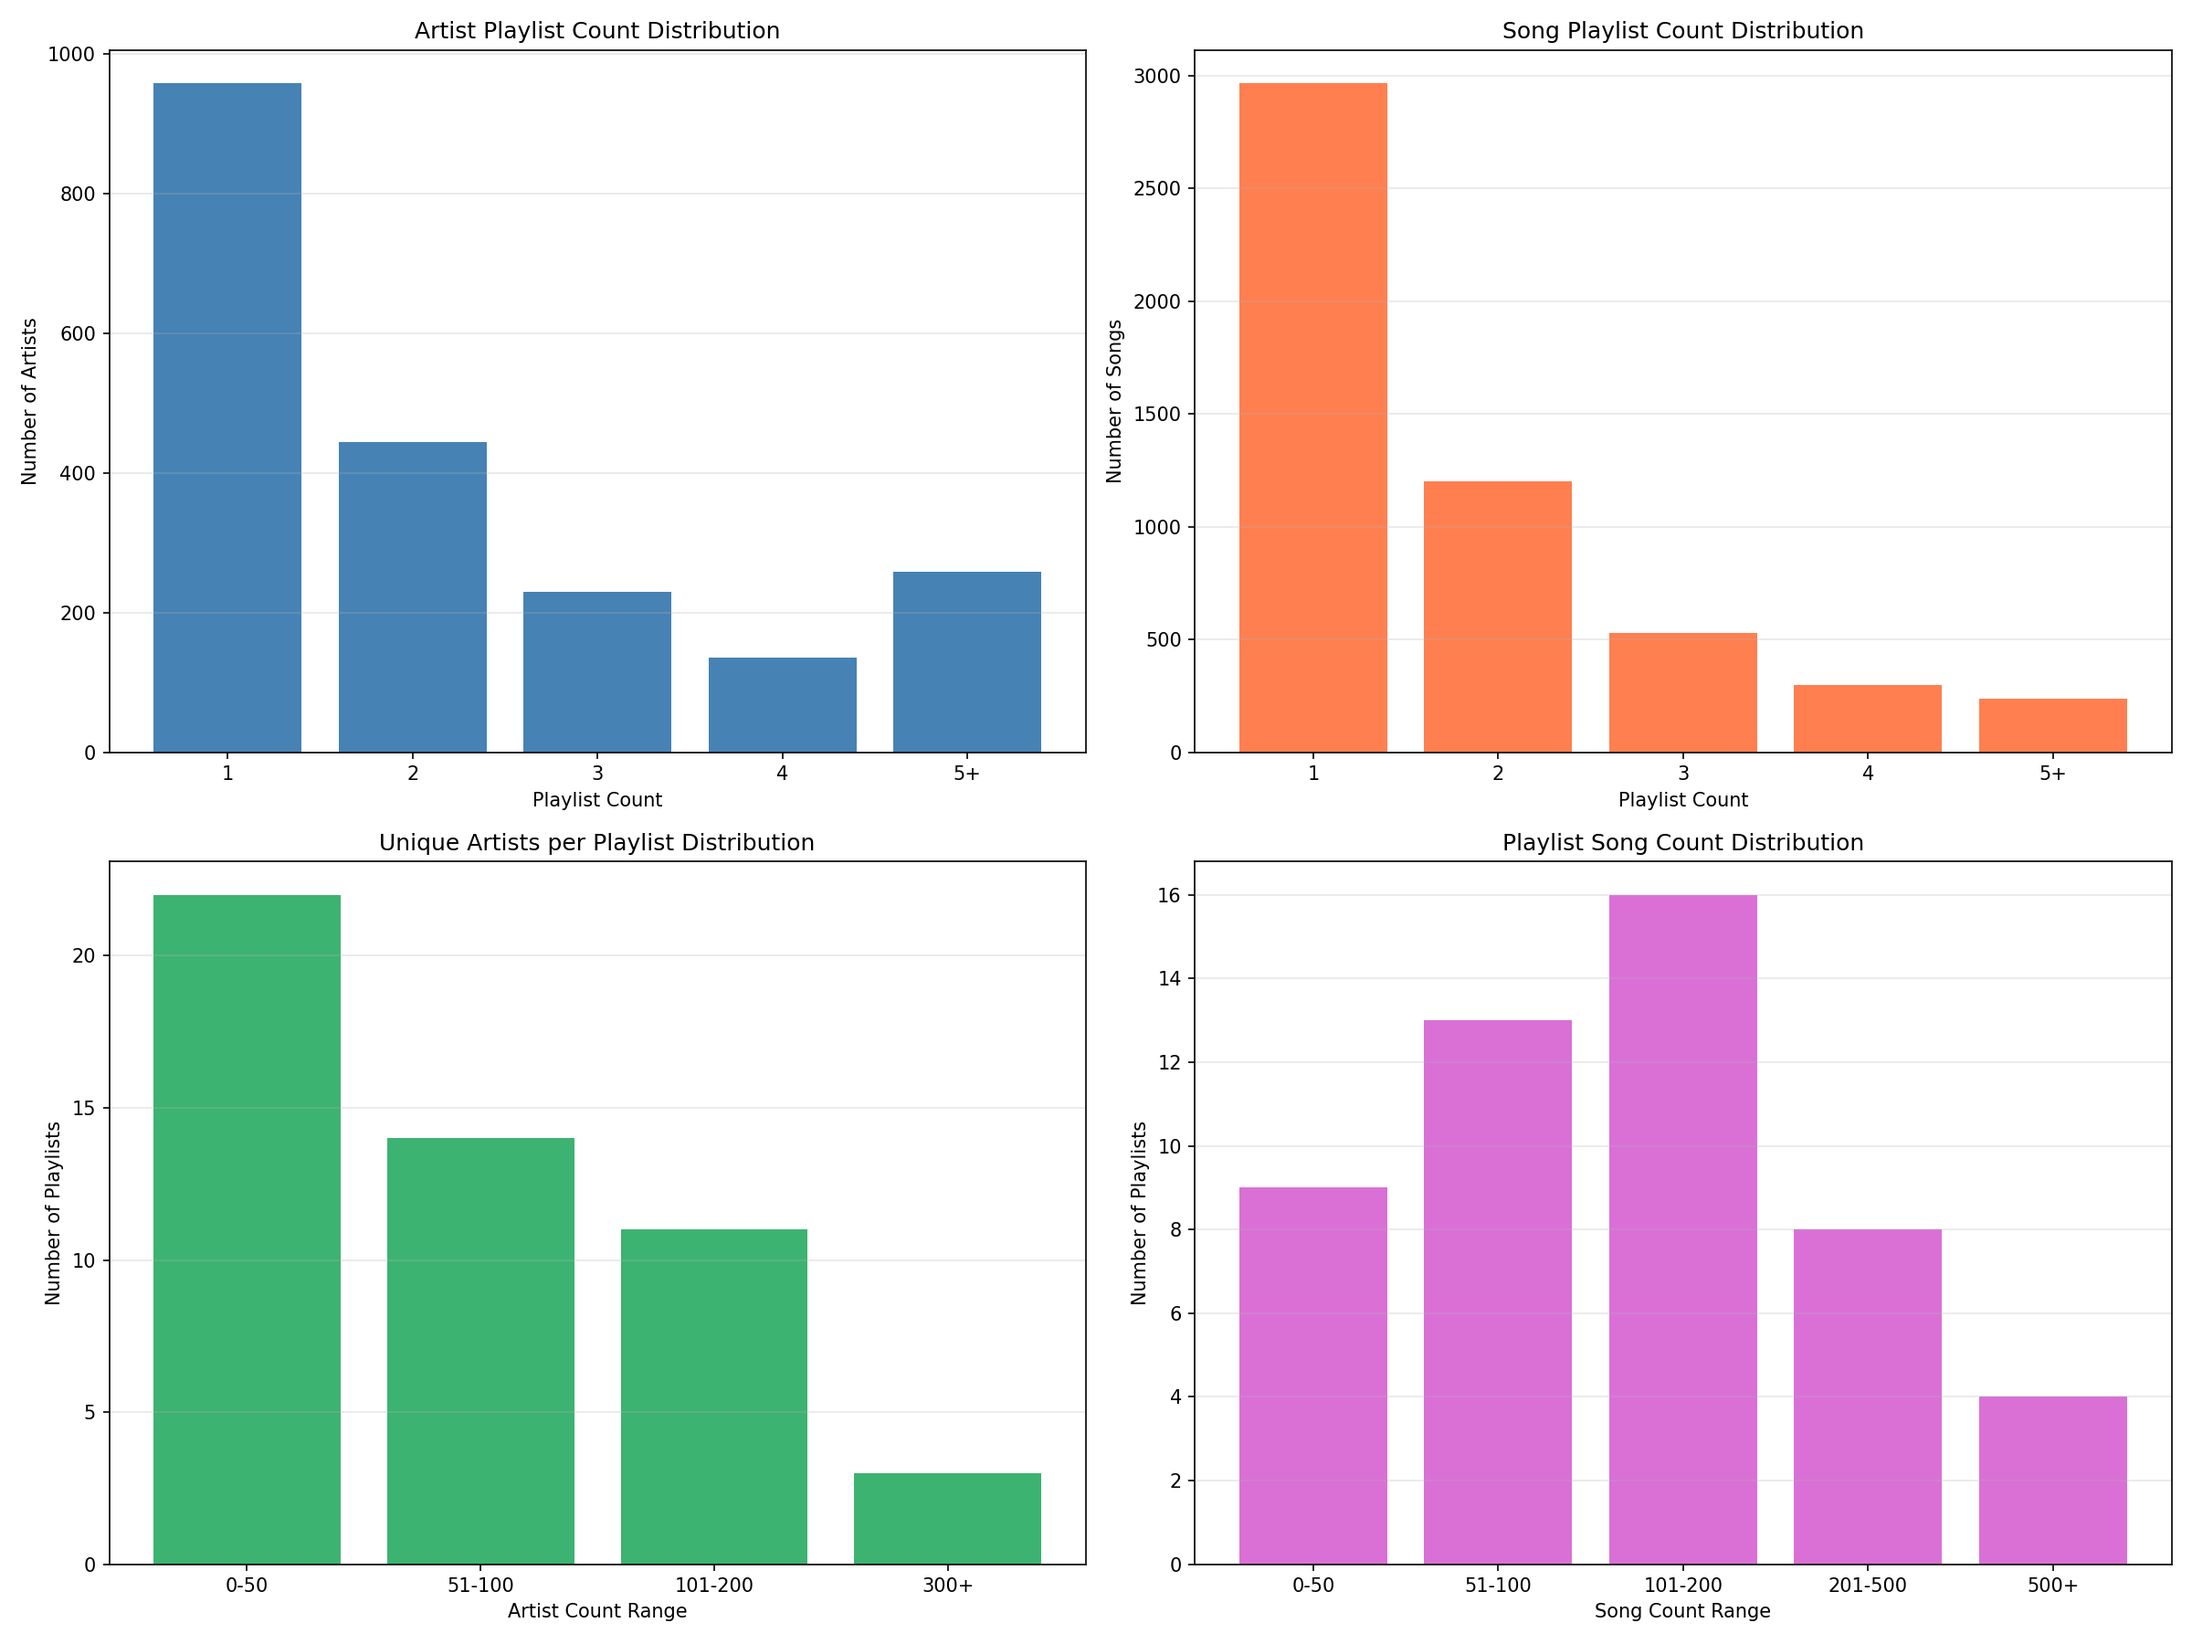
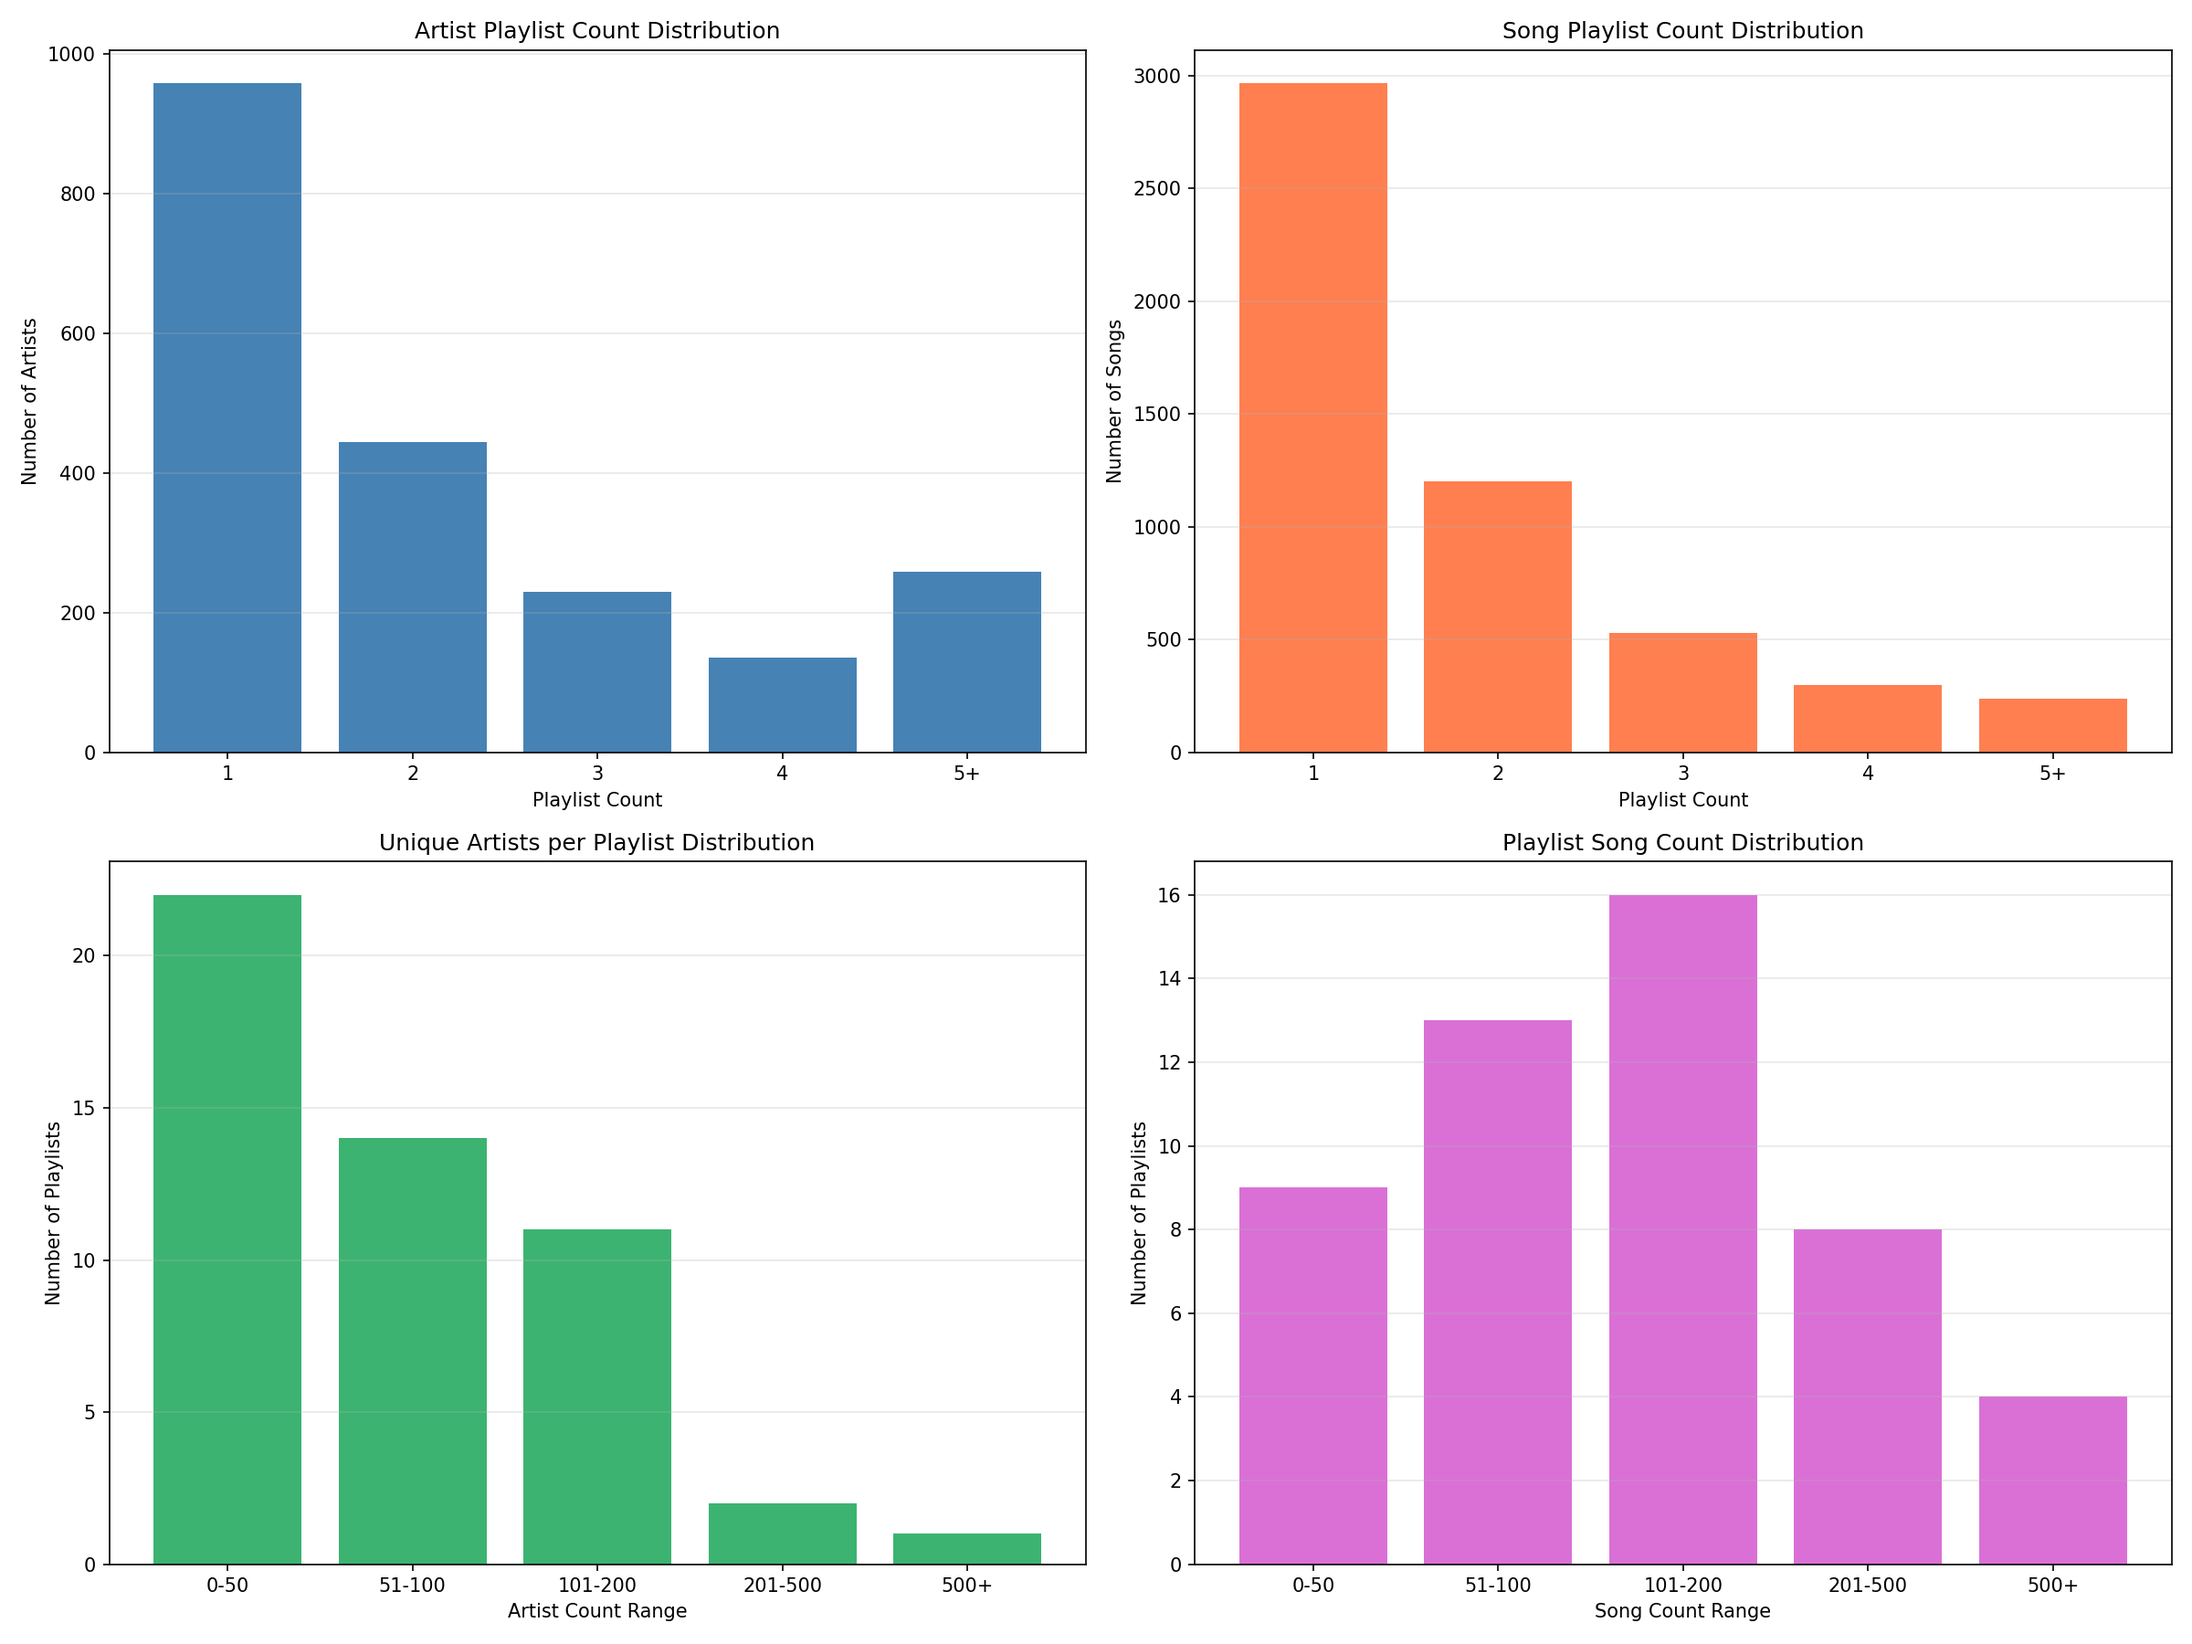
Commit changes to distribution bin count

Changed region(s): [[0.2188, 0.6844, 0.5, 0.9644], [0.125, 0.5289, 0.1875, 0.9644]]

diff --git a/src/analysis/visualize_distributions.py b/src/analysis/visualize_distributions.py
@@ -17,39 +17,33 @@ df_artist_playlist_raw = pd.read_sql("SELECT Artist, playlist_count FROM artist_
 # Query raw song playlist count
 df_song_playlist_raw = pd.read_sql("SELECT Track_ID, playlist_count FROM song_playlist_count", conn)
 
-# Query unique artists per playlist distribution (grouped ranges)
-df_artists_per_playlist = pd.read_sql("""
-    SELECT CASE
-             WHEN artist_count <= 50 THEN '0-50'
-             WHEN artist_count <= 100 THEN '51-100'
-             WHEN artist_count <= 200 THEN '101-200'
-             WHEN artist_count <= 300 THEN '201-300'
-             ELSE '300+'
-           END as artist_count_range,
-           COUNT(*) as playlist_count
-    FROM (SELECT playlist_name, COUNT(DISTINCT Artist) as artist_count
-         FROM playlists
-         GROUP BY playlist_name)
-    GROUP BY artist_count_range
-    ORDER BY MIN(artist_count);
+# Query unique artists per playlist
+df_artists_per_playlist_raw = pd.read_sql("""
+    SELECT playlist_name, COUNT(DISTINCT Artist) as unique_artists
+    FROM playlists
+    GROUP BY playlist_name
 """, conn)
 
-# Query song count by playlist (grouped ranges)
-df_playlist_song = pd.read_sql("""
-    SELECT CASE
-             WHEN song_count <= 50 THEN '0-50'
-             WHEN song_count <= 100 THEN '51-100'
-             WHEN song_count <= 200 THEN '101-200'
-             WHEN song_count <= 500 THEN '201-500'
-             ELSE '500+'
-           END as song_count_range,
-           COUNT(*) as playlist_count
-    FROM (SELECT playlist_name, COUNT(*) as song_count
-         FROM playlists
-         GROUP BY playlist_name)
-    GROUP BY song_count_range
-    ORDER BY MIN(song_count);
+# Use explicit bins for artist count ranges (same as playlist song count)
+bins = [0, 50, 100, 200, 500, float('inf')]
+labels = ['0-50', '51-100', '101-200', '201-500', '500+']
+df_artists_per_playlist_raw['artist_range'] = pd.cut(df_artists_per_playlist_raw['unique_artists'], bins=bins, labels=labels)
+df_artists_per_playlist = df_artists_per_playlist_raw['artist_range'].value_counts().sort_index().reset_index()
+df_artists_per_playlist.columns = ['artist_count_range', 'playlist_count']
+
+# Query song count by playlist
+df_playlist_song_raw = pd.read_sql("""
+    SELECT playlist_name, COUNT(*) as song_count
+    FROM playlists
+    GROUP BY playlist_name
 """, conn)
+
+# Use explicit bins for song count ranges
+bins_song = [0, 50, 100, 200, 500, float('inf')]
+labels_song = ['0-50', '51-100', '101-200', '201-500', '500+']
+df_playlist_song_raw['song_range'] = pd.cut(df_playlist_song_raw['song_count'], bins=bins_song, labels=labels_song)
+df_playlist_song = df_playlist_song_raw['song_range'].value_counts().sort_index().reset_index()
+df_playlist_song.columns = ['song_count_range', 'playlist_count']
 
 conn.close()
 
